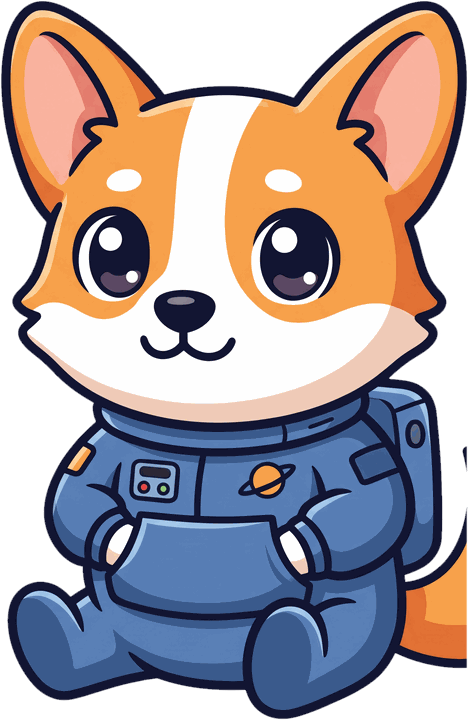
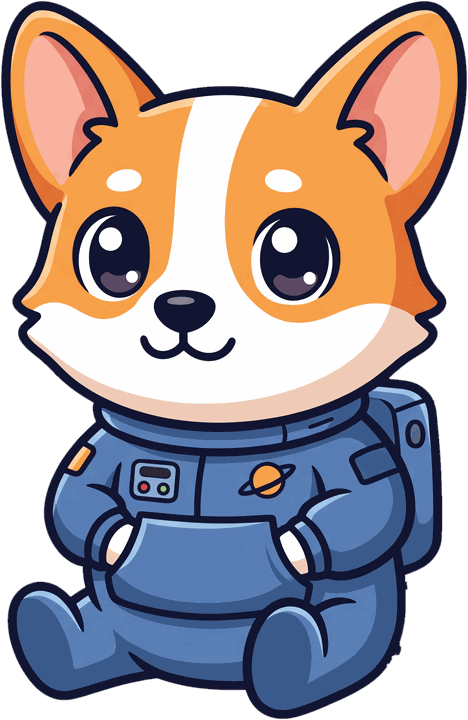
Community menu reorder/rewording, 404 corgi without the cut-off tail
- Community dropdown: Discord, Become a Speaker, About the team, Testimonials, Our speakers, Hall of Fame
- 404 mascot: tail removed (the source cuts it off, which looked broken on the grey page)

Changed region(s): [[0.8376, 0.7028, 1.0, 0.9472], [0.9872, 0.6111, 1.0, 0.6722]]

diff --git a/_templates/base.html b/_templates/base.html
@@ -163,11 +163,11 @@
               <div class="dropdown-menu nav-panel nav-panel-list p-0" aria-labelledby="navbarCommunity">
                 <div class="nav-panel-inner">
                   <a class="dropdown-item" href="https://discord.gg/mvHyZzRGaQ" target="_blank" style="--i:1"><i class="fe fe-message-circle" aria-hidden="true"></i>Discord</a>
-                  <a class="dropdown-item" href="./hall-of-fame" style="--i:2"><i class="fe fe-award" aria-hidden="true"></i>Hall of Fame</a>
-                  <a class="dropdown-item" href="./speakers" style="--i:3"><i class="fe fe-mic" aria-hidden="true"></i>Speakers</a>
-                  <a class="dropdown-item" href="https://cfp.ninja/?q=Conf42&amp;type=online&amp;status=open&amp;page=1" target="_blank" style="--i:4"><i class="fe fe-send" aria-hidden="true"></i>Become a speaker (CFPs)</a>
-                  <a class="dropdown-item" href="./testimonials" style="--i:5"><i class="fe fe-heart" aria-hidden="true"></i>Testimonials</a>
-                  <a class="dropdown-item" href="./about" style="--i:6"><i class="fe fe-users" aria-hidden="true"></i>About the team</a>
+                  <a class="dropdown-item" href="https://cfp.ninja/?q=Conf42&amp;type=online&amp;status=open&amp;page=1" target="_blank" style="--i:2"><i class="fe fe-send" aria-hidden="true"></i>Become a Speaker</a>
+                  <a class="dropdown-item" href="./about" style="--i:3"><i class="fe fe-users" aria-hidden="true"></i>About the team</a>
+                  <a class="dropdown-item" href="./testimonials" style="--i:4"><i class="fe fe-heart" aria-hidden="true"></i>Testimonials</a>
+                  <a class="dropdown-item" href="./speakers" style="--i:5"><i class="fe fe-mic" aria-hidden="true"></i>Our speakers</a>
+                  <a class="dropdown-item" href="./hall-of-fame" style="--i:6"><i class="fe fe-award" aria-hidden="true"></i>Hall of Fame</a>
                 </div>
               </div>
             </li>
